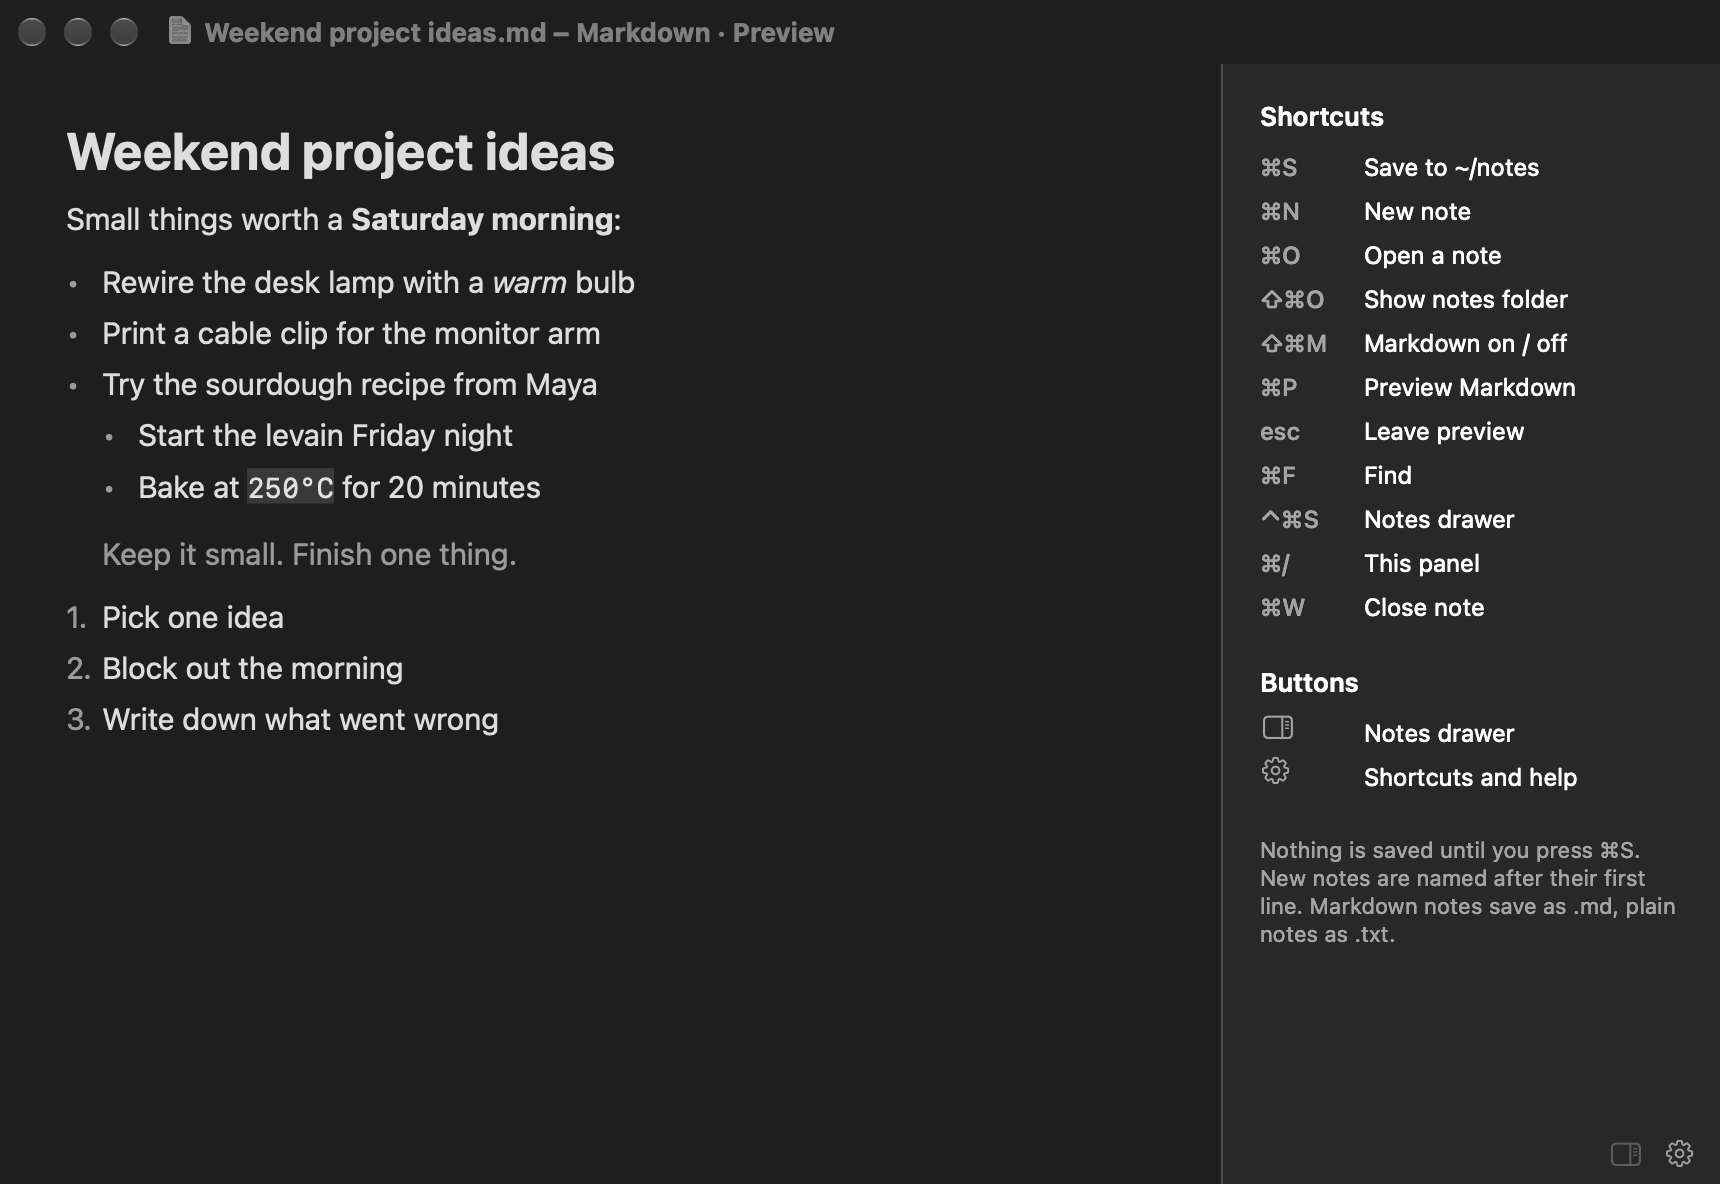
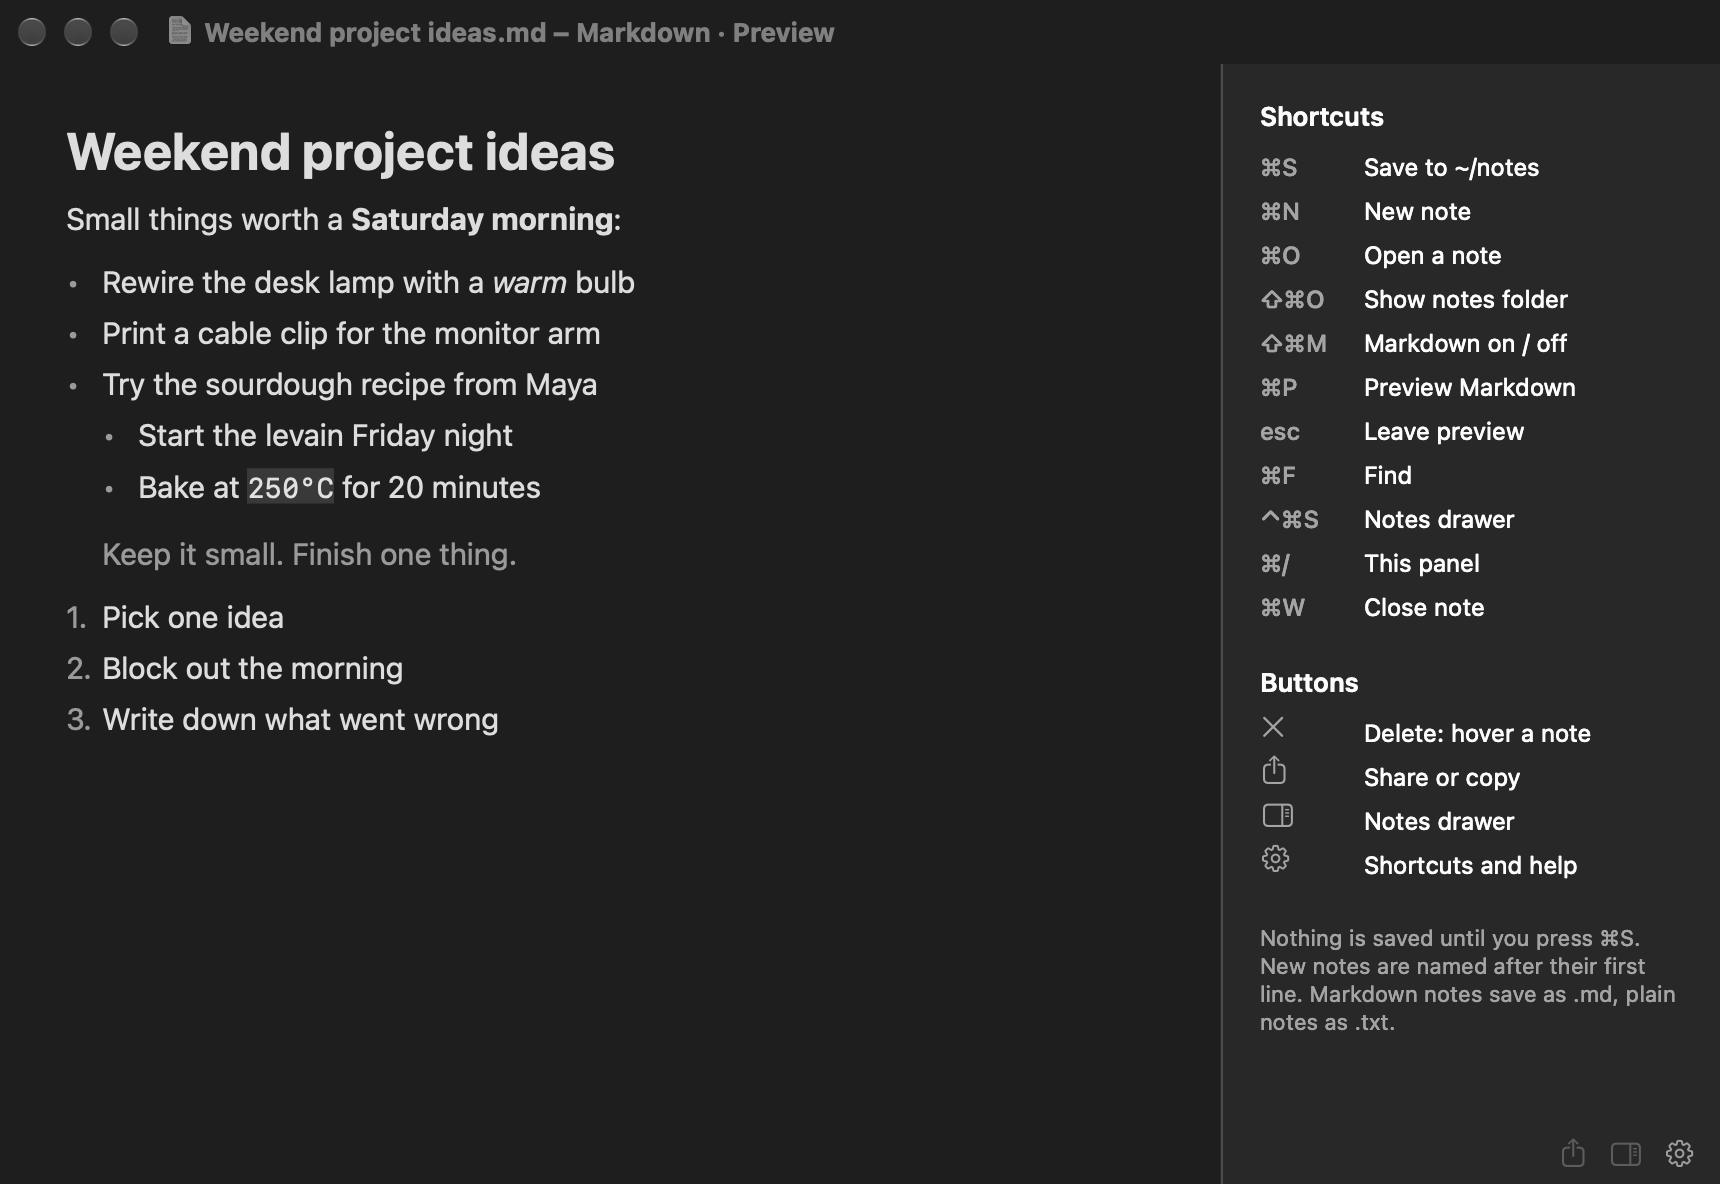
Add note sharing and one-click delete from the drawer
A share button next to the drawer and gear icons opens the macOS share
menu (Mail, Messages, and others) for the note's text, with a Copy item
first. Mail uses the note's name as the subject.

Hovering a note in the drawer shows an X that moves it to the Trash
without a prompt. A window showing the deleted note clears, or keeps
its unsaved edits as an untitled note. File > Move to Trash does the
same for the open note.

Changed region(s): [[0.7395, 0.5938, 0.986, 0.875], [0.7395, 0.5938, 0.7703, 0.625]]

diff --git a/Sources/NoteWindowController.swift b/Sources/NoteWindowController.swift
@@ -1,6 +1,6 @@
 import AppKit
 
-final class NoteWindowController: NSWindowController, NSWindowDelegate, NSTextViewDelegate, NSMenuItemValidation {
+final class NoteWindowController: NSWindowController, NSWindowDelegate, NSTextViewDelegate, NSMenuItemValidation, NSSharingServicePickerDelegate {
     private static var cascadePoint = NSPoint.zero
     private static let editorFont = NSFont.monospacedSystemFont(ofSize: 14, weight: .regular)
     private static let inset = NSSize(width: 28, height: 22)
@@ -30,6 +30,7 @@ final class NoteWindowController: NSWindowController, NSWindowDelegate, NSTextVi
     private let notesPanel = NotesListView()
     private var sidebarWidthConstraint: NSLayoutConstraint!
     private lazy var notesButton = FaintButton(symbol: "sidebar.right", label: "Notes (⌃⌘S)", target: self, action: #selector(toggleNotes(_:)))
+    private lazy var shareButton = FaintButton(symbol: "square.and.arrow.up", label: "Share", target: self, action: #selector(shareNote(_:)))
     private lazy var helpButton = FaintButton(symbol: "gearshape", label: "Shortcuts (⌘/)", target: self, action: #selector(toggleHelp(_:)))
 
     var onClose: ((NoteWindowController) -> Void)?
@@ -56,7 +57,8 @@ final class NoteWindowController: NSWindowController, NSWindowDelegate, NSTextVi
         configureViews(in: window)
         configureSidebar(in: window.contentView!)
         notesPanel.onOpen = { [weak self] url in self?.onOpenRequest?(url) }
-        NotificationCenter.default.addObserver(self, selector: #selector(notesDidChange), name: NoteStore.didChange, object: nil)
+        notesPanel.onDelete = { [weak self] url in self?.trash(url) }
+        NotificationCenter.default.addObserver(self, selector: #selector(notesDidChange(_:)), name: NoteStore.didChange, object: nil)
         window.center()
         Self.cascadePoint = window.cascadeTopLeft(from: Self.cascadePoint)
         updateTitle()
@@ -138,6 +140,7 @@ final class NoteWindowController: NSWindowController, NSWindowDelegate, NSTextVi
             ])
         }
 
+        container.addSubview(shareButton)
         container.addSubview(notesButton)
         container.addSubview(helpButton)
 
@@ -155,6 +158,8 @@ final class NoteWindowController: NSWindowController, NSWindowDelegate, NSTextVi
             helpButton.centerYAnchor.constraint(equalTo: container.bottomAnchor, constant: -Self.barHeight / 2),
             notesButton.trailingAnchor.constraint(equalTo: helpButton.leadingAnchor, constant: -10),
             notesButton.centerYAnchor.constraint(equalTo: helpButton.centerYAnchor),
+            shareButton.trailingAnchor.constraint(equalTo: notesButton.leadingAnchor, constant: -10),
+            shareButton.centerYAnchor.constraint(equalTo: helpButton.centerYAnchor),
         ]
         for scroll in [editorScroll, previewScroll] {
             constraints += [
@@ -243,6 +248,31 @@ final class NoteWindowController: NSWindowController, NSWindowDelegate, NSTextVi
 
     // MARK: - Actions
 
+    @objc func deleteNote(_ sender: Any?) {
+        guard let fileURL else { return NSSound.beep() }
+        trash(fileURL)
+    }
+
+    /// Moves the file to the Trash without asking. Windows showing it react in `notesDidChange`.
+    private func trash(_ url: URL) {
+        do {
+            try FileManager.default.trashItem(at: url, resultingItemURL: nil)
+            NotificationCenter.default.post(name: NoteStore.didChange, object: self, userInfo: [NoteStore.trashedKey: url])
+        } catch {
+            if let window { NSAlert(error: error).beginSheetModal(for: window) }
+        }
+    }
+
+    private func resetToBlank() {
+        editor.string = ""
+        editor.undoManager?.removeAllActions()
+        fileURL = nil
+        isMarkdown = false
+        isDirty = false
+        setPreviewing(false)
+        updateTitle()
+    }
+
     @objc func saveNote(_ sender: Any?) {
         save()
     }
@@ -265,6 +295,35 @@ final class NoteWindowController: NSWindowController, NSWindowDelegate, NSTextVi
 
     @objc func toggleHelp(_ sender: Any?) {
         setPanel(activePanel == .help ? nil : .help)
+    }
+
+    /// Shows the system share menu (Mail, Messages, and so on) for the note's text, plus a Copy item.
+    @objc func shareNote(_ sender: Any?) {
+        guard !editor.string.trimmingCharacters(in: .whitespacesAndNewlines).isEmpty else { return NSSound.beep() }
+        let picker = NSSharingServicePicker(items: [editor.string])
+        picker.delegate = self
+        picker.show(relativeTo: shareButton.bounds, of: shareButton, preferredEdge: .maxY)
+    }
+
+    func sharingServicePicker(
+        _ picker: NSSharingServicePicker,
+        sharingServicesForItems items: [Any],
+        proposedSharingServices proposed: [NSSharingService]
+    ) -> [NSSharingService] {
+        let text = items.first as? String ?? ""
+        let copy = NSSharingService(
+            title: "Copy",
+            image: NSImage(systemSymbolName: "doc.on.doc", accessibilityDescription: "Copy")!,
+            alternateImage: nil
+        ) {
+            NSPasteboard.general.clearContents()
+            NSPasteboard.general.setString(text, forType: .string)
+        }
+        return [copy] + proposed
+    }
+
+    func sharingServicePicker(_ picker: NSSharingServicePicker, didChoose service: NSSharingService?) {
+        service?.subject = fileURL?.deletingPathExtension().lastPathComponent ?? NoteStore.suggestedName(for: editor.string)
     }
 
     override func cancelOperation(_ sender: Any?) {
@@ -364,7 +423,21 @@ final class NoteWindowController: NSWindowController, NSWindowDelegate, NSTextVi
         })
     }
 
-    @objc private func notesDidChange() {
+    /// Refreshes the drawer. If this window's note was trashed, clears it, or keeps any unsaved edits as an untitled note.
+    @objc private func notesDidChange(_ notification: Notification) {
+        if let trashed = notification.userInfo?[NoteStore.trashedKey] as? URL,
+           trashed.standardizedFileURL == fileURL?.standardizedFileURL {
+            if isDirty {
+                fileURL = nil
+                updateTitle()
+            } else {
+                resetToBlank()
+            }
+        }
+        reloadNotesIfShown()
+    }
+
+    private func reloadNotesIfShown() {
         if activePanel == .notes { notesPanel.reload() }
     }
 
@@ -391,6 +464,8 @@ final class NoteWindowController: NSWindowController, NSWindowDelegate, NSTextVi
         case #selector(toggleNotes(_:)):
             menuItem.state = activePanel == .notes ? .on : .off
             return true
+        case #selector(deleteNote(_:)):
+            return fileURL != nil
         case #selector(toggleHelp(_:)):
             menuItem.state = activePanel == .help ? .on : .off
             return true
@@ -416,7 +491,7 @@ final class NoteWindowController: NSWindowController, NSWindowDelegate, NSTextVi
     }
 
     func windowDidBecomeKey(_ notification: Notification) {
-        notesDidChange()
+        reloadNotesIfShown()
     }
 
     func windowShouldClose(_ sender: NSWindow) -> Bool {

diff --git a/Sources/SidebarViews.swift b/Sources/SidebarViews.swift
@@ -85,6 +85,8 @@ final class HelpPanelView: NSView {
         grid.column(at: 0).width = 40
 
         let buttons = NSGridView(views: [
+            [symbol("xmark"), label("Delete: hover a note")],
+            [symbol("square.and.arrow.up"), label("Share or copy")],
             [symbol("sidebar.right"), label("Notes drawer")],
             [symbol("gearshape"), label("Shortcuts and help")],
         ])
@@ -133,9 +135,10 @@ final class HelpPanelView: NSView {
 
 // MARK: - Notes list
 
-/// Lists the notes folder, newest first. A click opens the note.
+/// Lists the notes folder, newest first. A click opens the note; the X that appears on hover deletes it.
 final class NotesListView: NSView, NSTableViewDataSource, NSTableViewDelegate {
     var onOpen: ((URL) -> Void)?
+    var onDelete: ((URL) -> Void)?
     var currentURL: URL? {
         didSet { highlightCurrent() }
     }
@@ -231,6 +234,7 @@ final class NotesListView: NSView, NSTableViewDataSource, NSTableViewDelegate {
         let note = notes[row]
         cell.title.stringValue = note.name
         cell.detail.stringValue = "\(dateFormatter.string(from: note.modified)) · \(note.url.pathExtension)"
+        cell.onDelete = { [weak self] in self?.onDelete?(note.url) }
         return cell
     }
 }
@@ -252,20 +256,50 @@ private final class NoteRowView: NSTableCellView {
     static let identifier = NSUserInterfaceItemIdentifier("NoteRow")
     let title = label("", size: 13)
     let detail = label("", size: 11, color: .secondaryLabelColor)
+    var onDelete: (() -> Void)?
+    private lazy var deleteButton = FaintButton(symbol: "xmark", label: "Move to Trash", target: self, action: #selector(deleteClicked))
 
     init() {
         super.init(frame: .zero)
         identifier = Self.identifier
+        deleteButton.symbolConfiguration = NSImage.SymbolConfiguration(pointSize: 10, weight: .semibold)
+        deleteButton.isHidden = true
         addSubview(title)
         addSubview(detail)
+        addSubview(deleteButton)
         NSLayoutConstraint.activate([
             title.topAnchor.constraint(equalTo: topAnchor, constant: 4),
             title.leadingAnchor.constraint(equalTo: leadingAnchor, constant: 6),
-            title.trailingAnchor.constraint(lessThanOrEqualTo: trailingAnchor, constant: -6),
+            title.trailingAnchor.constraint(lessThanOrEqualTo: deleteButton.leadingAnchor, constant: -6),
             detail.topAnchor.constraint(equalTo: title.bottomAnchor, constant: 1),
             detail.leadingAnchor.constraint(equalTo: title.leadingAnchor),
-            detail.trailingAnchor.constraint(lessThanOrEqualTo: trailingAnchor, constant: -6),
+            detail.trailingAnchor.constraint(lessThanOrEqualTo: deleteButton.leadingAnchor, constant: -6),
+            deleteButton.trailingAnchor.constraint(equalTo: trailingAnchor, constant: -8),
+            deleteButton.centerYAnchor.constraint(equalTo: centerYAnchor),
         ])
+    }
+
+    override func updateTrackingAreas() {
+        super.updateTrackingAreas()
+        trackingAreas.forEach(removeTrackingArea)
+        addTrackingArea(NSTrackingArea(rect: .zero, options: [.mouseEnteredAndExited, .activeInActiveApp, .inVisibleRect], owner: self))
+    }
+
+    override func mouseEntered(with event: NSEvent) {
+        deleteButton.isHidden = false
+    }
+
+    override func mouseExited(with event: NSEvent) {
+        deleteButton.isHidden = true
+    }
+
+    override func prepareForReuse() {
+        super.prepareForReuse()
+        deleteButton.isHidden = true
+    }
+
+    @objc private func deleteClicked() {
+        onDelete?()
     }
 
     required init?(coder: NSCoder) {

diff --git a/Sources/AppDelegate.swift b/Sources/AppDelegate.swift
@@ -131,6 +131,8 @@ final class AppDelegate: NSObject, NSApplicationDelegate {
         fileMenu.addItem(.separator())
         fileMenu.addItem(withTitle: "Close", action: #selector(NSWindow.performClose(_:)), keyEquivalent: "w")
         fileMenu.addItem(withTitle: "Save", action: #selector(NoteWindowController.saveNote(_:)), keyEquivalent: "s")
+        fileMenu.addItem(.separator())
+        fileMenu.addItem(withTitle: "Move to Trash", action: #selector(NoteWindowController.deleteNote(_:)), keyEquivalent: "")
         main.addItem(submenu(fileMenu, title: "File"))
 
         let editMenu = NSMenu(title: "Edit")

diff --git a/Sources/NoteStore.swift b/Sources/NoteStore.swift
@@ -11,6 +11,7 @@ enum NoteStore {
     static var folder = FileManager.default.homeDirectoryForCurrentUser.appendingPathComponent("notes", isDirectory: true)
     static let noteExtensions: Set<String> = ["txt", "md", "markdown"]
     static let didChange = Notification.Name("JotNotesDidChange")
+    static let trashedKey = "trashedURL"
 
     static func ensureFolder() throws {
         try FileManager.default.createDirectory(at: folder, withIntermediateDirectories: true)

diff --git a/README.md b/README.md
@@ -10,6 +10,8 @@ A small, minimal plain-text editor for macOS. Think TextEdit without the formatt
 - Nothing is saved until you press ⌘S. The first save goes straight to `~/notes`, which Jot creates if it does not exist. There is no save dialog.
 - Each note is named after its first line, for example `Grocery list.txt`. A blank note gets a timestamp name.
 - A drawer lists the notes in `~/notes`, newest first. Click one to open it.
+- Share a note by Mail, Messages, or any other macOS share option, or copy it.
+- Hover over a note in the drawer and click its X to move it to the Trash. There is no prompt; restore it from the Trash if needed. Unsaved edits in an open window are kept as an untitled note.
 - Native AppKit app, no dependencies. Markdown is rendered with Apple's built-in parser.
 
 ## Shortcuts
@@ -28,7 +30,7 @@ A small, minimal plain-text editor for macOS. Think TextEdit without the formatt
 | ⌘/ | Shortcuts panel |
 | ⌘W | Close note |
 
-The two faint icons at the bottom right open the notes drawer and the shortcuts panel.
+The three faint icons at the bottom right share the note, open the notes drawer, and open the shortcuts panel.
 
 ## Build and install
 
